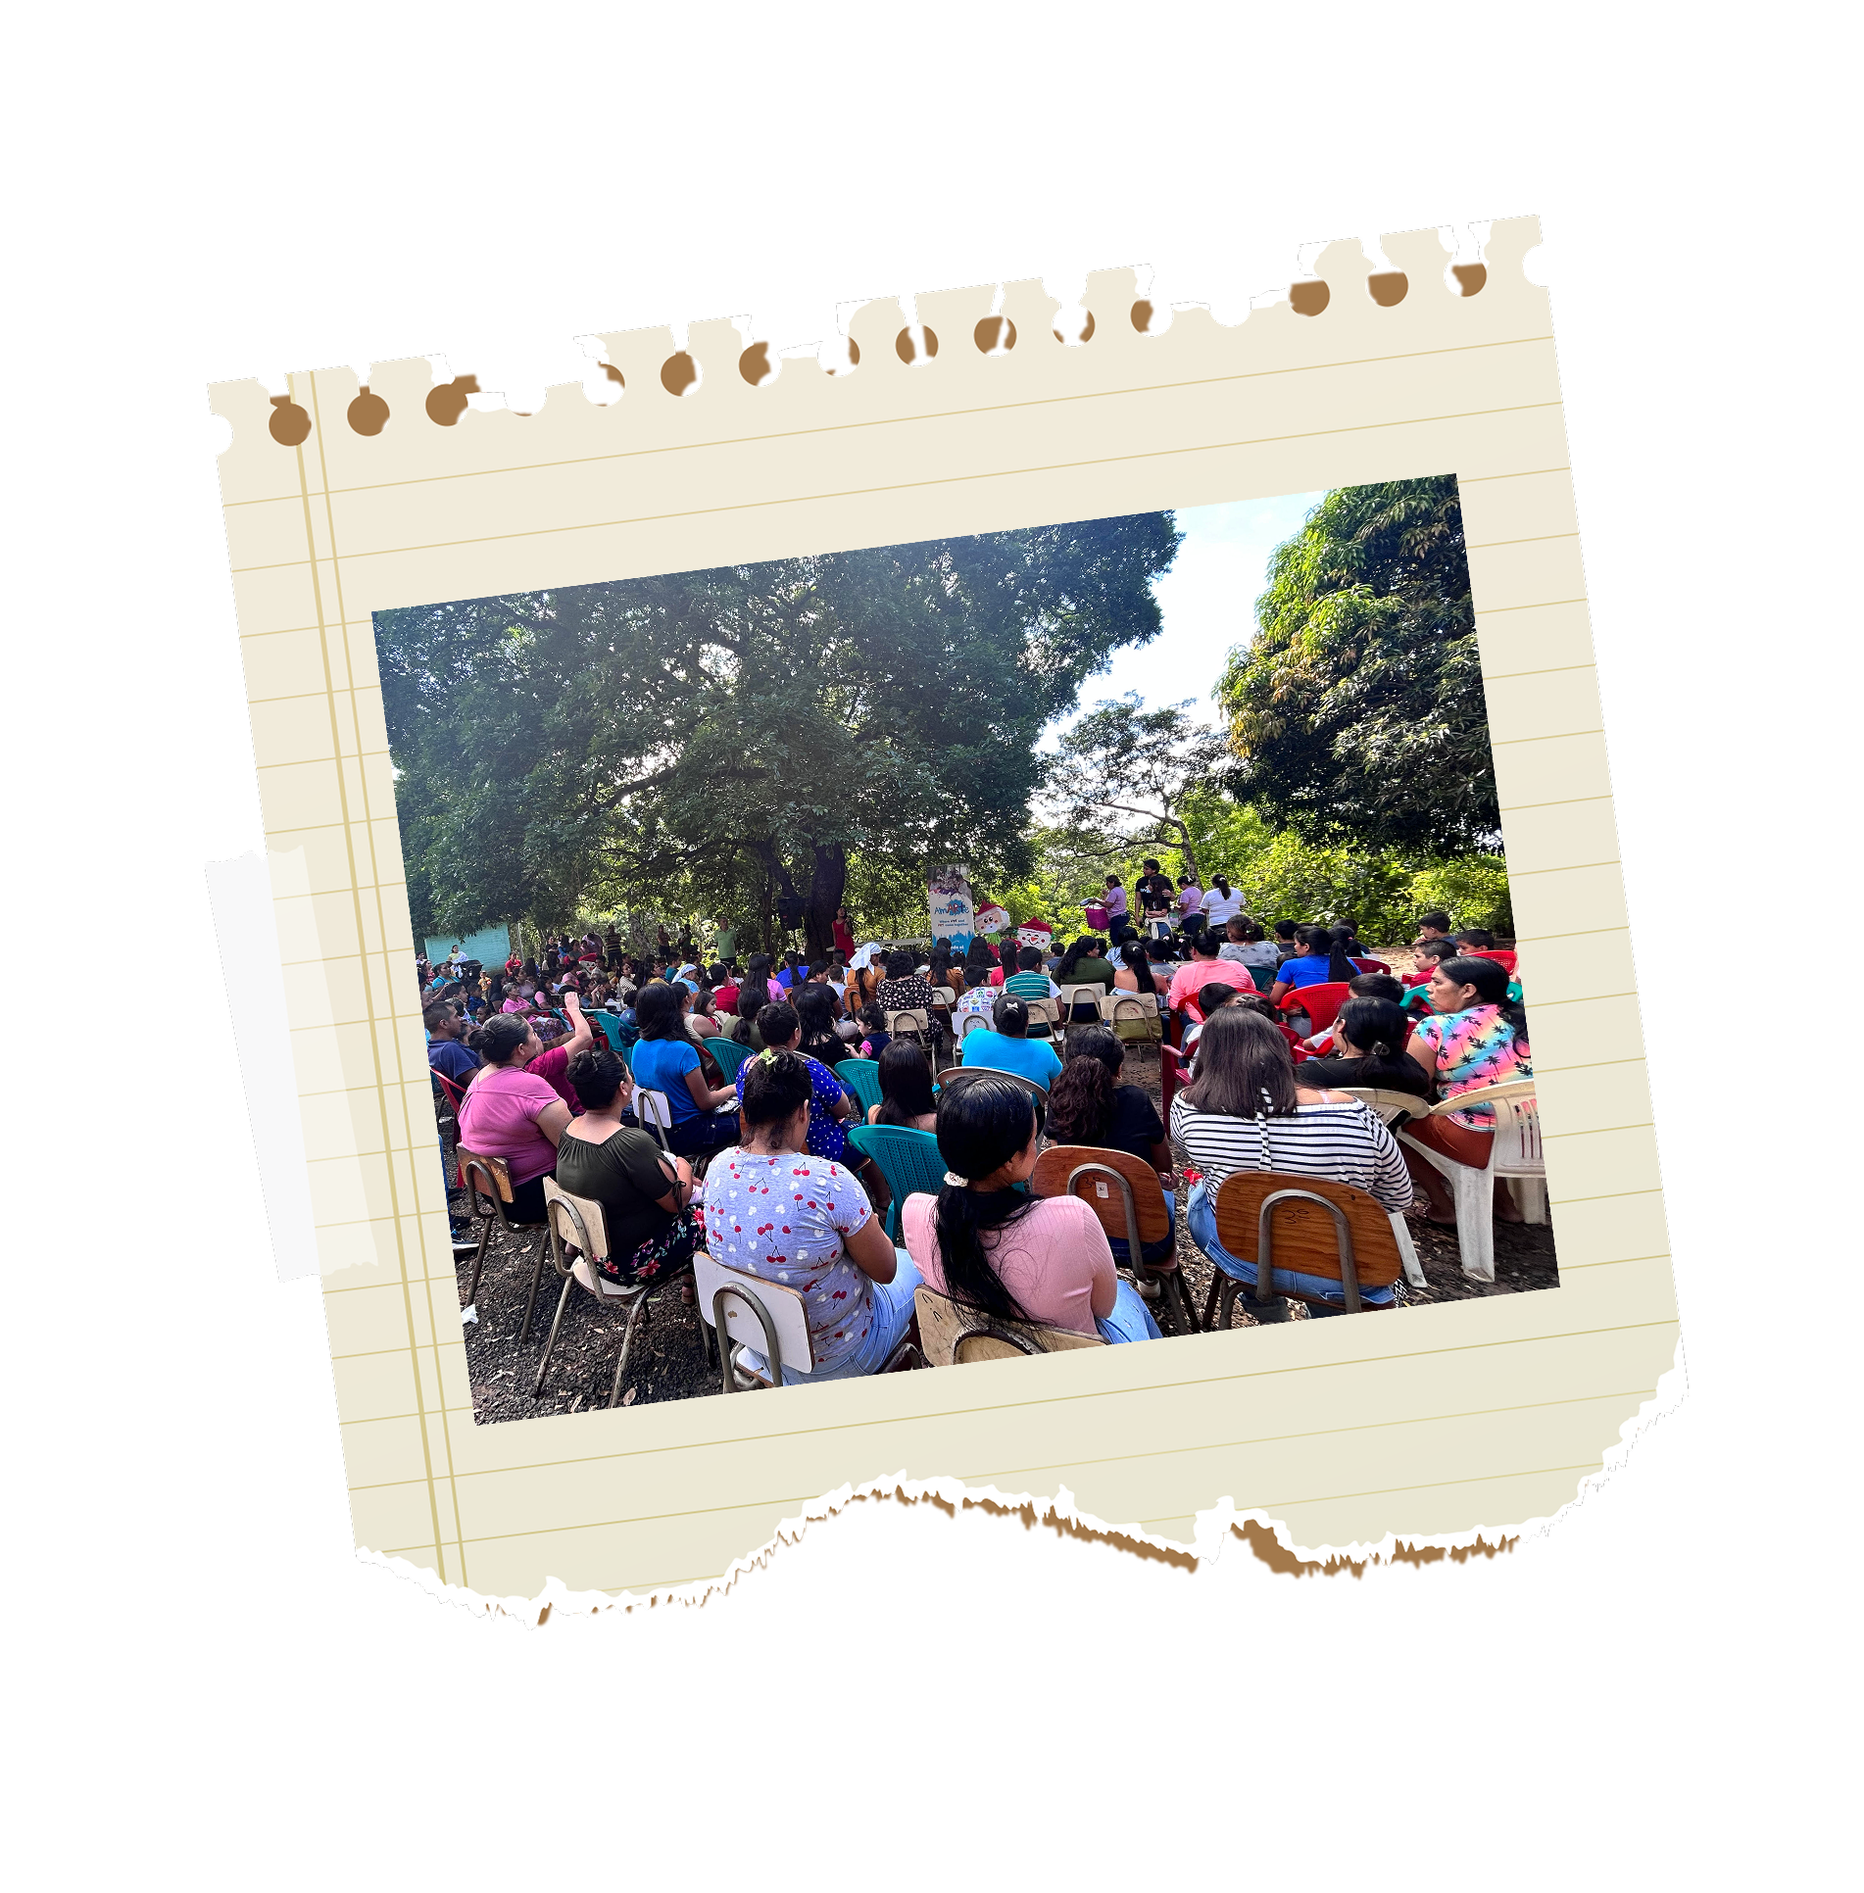
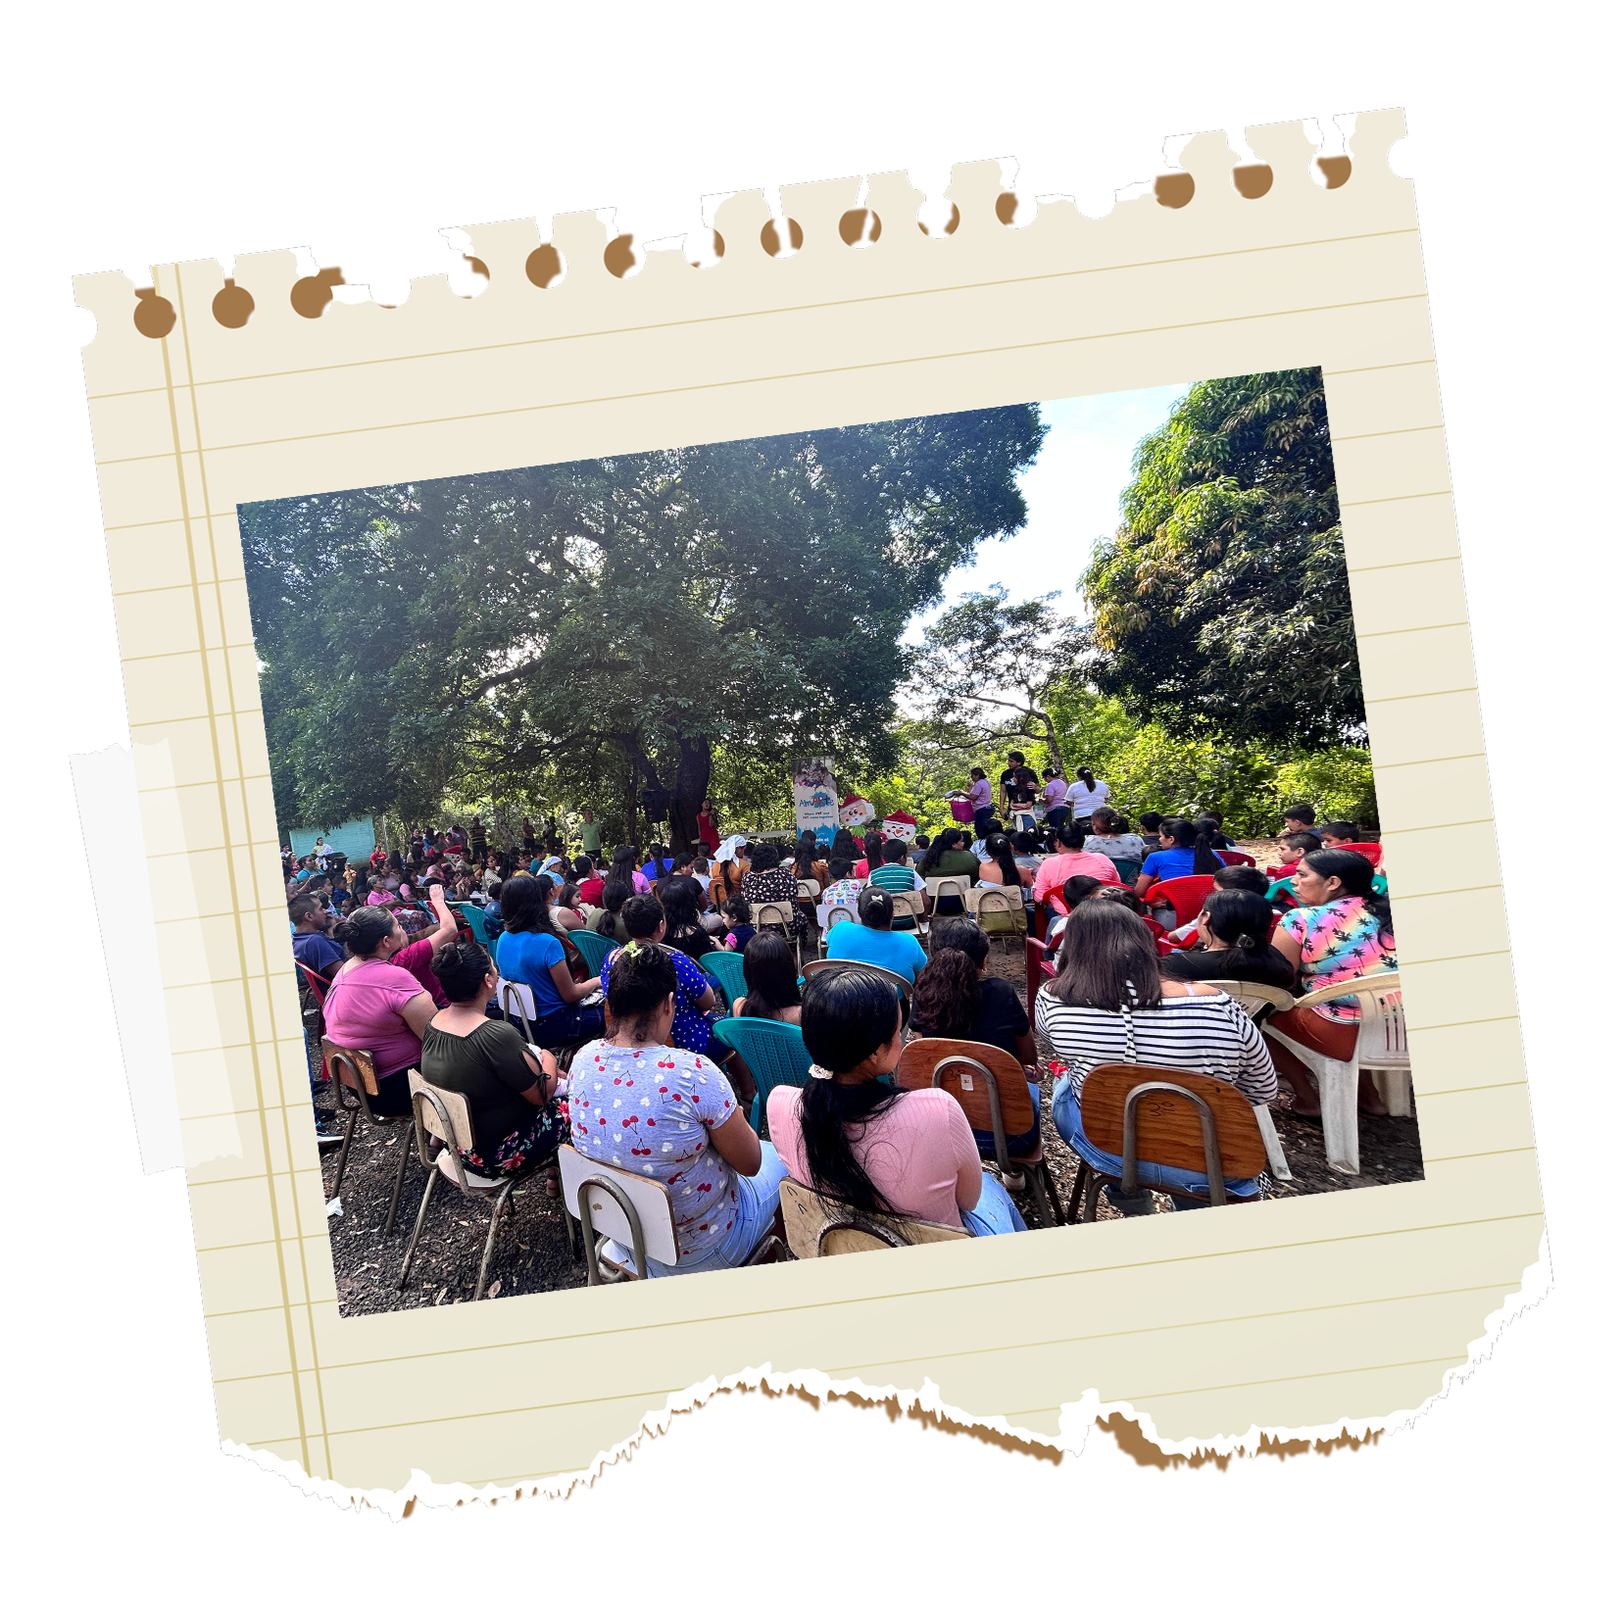
changedLayouts

diff --git a/app/[lang]/programs/page.tsx b/app/[lang]/programs/page.tsx
@@ -1,6 +1,5 @@
 import Image from "next/image";
 import { t, type Lang } from "@/lib/strings";
-import ProgramsCarousel from "@/components/ProgramsCarousel";
 
 export default async function ProgramsPage(
   { params }: { params: Promise<{ lang: Lang }> }
@@ -8,27 +7,94 @@ export default async function ProgramsPage(
   const { lang } = await params;
   const dict = t(lang || "es");
 
-  // Mostrar TODOS los programas en el carrusel
-const allPrograms = [...dict.programs] as {
-  id: string; title: string; desc: string; img: string; imgAlt: string;
-}[];
-
+  const programs = [
+    {
+      id: "art",
+      img: "/p1.png",
+      imgAlt: lang === "es" ? "Niños con kits de arte" : "Kids with art kits",
+      title: lang === "es" ? "Clases de Arte" : "Art Classes",
+      desc: lang === "es"
+        ? "Organizamos clases en las comunidades donde los niños participan en actividades artísticas diseñadas para fomentar la creatividad y la autoexpresión. En cada clase, los niños trabajan en un proyecto artístico específico, como crear autorretratos, tableros de visión y otras piezas creativas. Estas actividades permiten a los niños explorar su creatividad, reflexionar sobre sus experiencias y desarrollar confianza a través de la expresión artística. Asimismo, organizamos recolecciones de materiales de arte para asegurar que los niños que no tienen acceso a materiales artísticos debido a barreras económicas, aún tengan la oportunidad de explorar su creatividad."
+        : "We host classes in the community where children participate in guided, hands-on art activities designed to encourage creativity and self-expression. In each class, children work on a specific art project, such as creating self-portraits, vision boards, and other creative pieces. These activities allow children to explore their creativity, reflect on their experiences, and build confidence through artistic expression. We also organize art supply drives to ensure that children who may not have access to art materials due to financial barriers still have the opportunity to explore their creativity.",
+    },
+    {
+      id: "scholarships",
+      img: "/p2.png",
+      imgAlt: lang === "es" ? "Niños recibiendo becas" : "Children receiving scholarships",
+      title: lang === "es" ? "Becas y Mentorías" : "Scholarships & Mentorships",
+      desc: lang === "es"
+        ? "Ofrecemos pequeñas becas a un número limitado de niños que enfrentan desafíos significativos. Este programa apoya a estudiantes que demuestran dedicación y un fuerte compromiso con su educación. Al proporcionar asistencia financiera, nuestro objetivo es ayudar a los niños a superar obstáculos y alcanzar sus metas educativas. Los beneficiarios de las becas también son emparejados con un mentor que brinda orientación y ánimo a lo largo de su trayectoria educativa."
+        : "We offer small scholarships to a limited number of children who face significant challenges. This program supports students who demonstrate dedication and a strong commitment to their education. By providing financial assistance, we aim to help children overcome obstacles and pursue their educational goals. Scholarship recipients are also paired with a mentor who provides guidance and encouragement throughout their educational journey.",
+    },
+    {
+      id: "wellbeing",
+      img: "/p3.png",
+      imgAlt: lang === "es" ? "Eventos comunitarios" : "Community events",
+      title: lang === "es" ? "Conexión Comunitaria" : "Community Engagement",
+      desc: lang === "es"
+        ? "Organizamos eventos comunitarios que celebran y fomentan el continuo crecimiento y éxito de los niños. Estos eventos reúnen a familias y miembros de la comunidad para reconocer los logros de los niños y promover un ambiente de apoyo."
+        : "We host special community events that celebrate and encourage children's continued growth and success. These events bring families and community members together to recognize children's achievements and foster a supportive environment.",
+    },
+  ];
 
   return (
     <section
-      className="py-12 min-h-[70vh] bg-cover bg-center bg-no-repeat"
+      className="relative min-h-screen bg-cover bg-center bg-no-repeat"
       style={{ backgroundImage: "url('/back3.png')" }}
     >
-      <div className="container-responsive text-white">
-        <h1 className="text-3xl md:text-4xl font-bold">
+      {/* Overlay para legibilidad */}
+      <div className="absolute inset-0 bg-black/40" />
+
+      <div className="relative container-responsive py-16">
+
+        {/* Título */}
+        <h1 className="text-4xl md:text-5xl font-bold text-white">
           {dict.programsTitle}
         </h1>
 
-        {/* Carrusel reutilizado mostrando TODOS los programas */}
-        <ProgramsCarousel items={allPrograms} />
+        {/* Separador decorativo */}
+        <div className="mt-4 flex items-center gap-3">
+          <div className="h-1 w-12 rounded-full bg-amPink" />
+          <div className="h-1 w-6 rounded-full bg-white/40" />
+          <div className="h-1 w-3 rounded-full bg-white/20" />
+        </div>
 
-        {/* Espacio para futuras acciones (CTA, filtros, etc.) */}
-        <div className="mt-10" />
+        {/* Lista de programas */}
+        <div className="mt-12 flex flex-col gap-8">
+          {programs.map((program, i) => (
+            <div
+              key={program.id}
+              className="flex flex-col sm:flex-row rounded-2xl overflow-hidden shadow-soft bg-white/10 backdrop-blur-sm"
+            >
+              {/* Foto con alto fijo igual en todas las cards */}
+              <div className="relative shrink-0 w-full h-64 sm:w-80 sm:h-80 md:w-96 md:h-96 bg-white/10">
+                <Image
+                  src={program.img}
+                  alt={program.imgAlt}
+                  fill
+                  className="object-contain"
+                  sizes="(max-width: 640px) 100vw, (max-width: 768px) 320px, 384px"
+                />
+              </div>
+
+              {/* Texto */}
+              <div className="flex flex-col justify-center px-8 py-8 text-center sm:text-left">
+                <span className="text-xs font-bold tracking-widest uppercase text-amPink mb-1">
+                  {lang === "es" ? `Programa ${i + 1}` : `Program ${i + 1}`}
+                </span>
+
+                <h2 className="text-2xl md:text-3xl font-bold text-white">
+                  {program.title}
+                </h2>
+
+                <p className="mt-4 text-white/90 text-sm md:text-base leading-relaxed max-w-2xl">
+                  {program.desc}
+                </p>
+              </div>
+            </div>
+          ))}
+        </div>
+
       </div>
     </section>
   );

diff --git a/app/[lang]/about/page.tsx b/app/[lang]/about/page.tsx
@@ -7,48 +7,55 @@ export default async function About(
   const { lang } = await params;
   const dict = t(lang || "es");
 
-  // Info del equipo (imagen, nombre, rol)
   const team = [
     {
       src: "/virginia.png",
       name: "Virginia Barrow-Coreas",
       role: "President",
+      desc: lang === "es"
+        ? "Virginia lidera la fundación con una visión clara de impacto social, guiando cada iniciativa con pasión y compromiso hacia los niños y familias de El Salvador."
+        : "Virginia leads the foundation with a clear vision of social impact, guiding every initiative with passion and commitment toward children and families in El Salvador.",
     },
     {
       src: "/benjamin.png",
       name: "Benjamin Coreas",
       role: "Vice President",
+      desc: lang === "es"
+        ? "Benjamin apoya la dirección estratégica de AMARTE, coordinando esfuerzos entre los distintos programas y asegurando que cada acción esté alineada con la misión de la fundación."
+        : "Benjamin supports AMARTE's strategic direction, coordinating efforts across programs and ensuring every action aligns with the foundation's mission.",
     },
     {
       src: "/karen.png",
-      name: "Karen \nDiaz",
+      name: "Karen Diaz",
       role: "Treasurer",
+      desc: lang === "es"
+        ? "Karen gestiona los recursos financieros de la fundación con transparencia y responsabilidad, garantizando que cada donación llegue donde más se necesita."
+        : "Karen manages the foundation's financial resources with transparency and accountability, ensuring every donation reaches where it is needed most.",
     },
     {
       src: "/gaby.png",
       name: "Gabriela Barrera",
       role: "Secretary",
+      desc: lang === "es"
+        ? "Gabriela mantiene la organización interna de AMARTE, coordinando comunicaciones y documentación para que cada programa funcione de manera eficiente."
+        : "Gabriela maintains AMARTE's internal organization, coordinating communications and documentation so every program runs efficiently.",
     },
     {
       src: "/karla.png",
-      name: "Karla \nUmanzor",
+      name: "Karla Umanzor",
       role: "Director of Programs",
+      desc: lang === "es"
+        ? "Karla diseña y supervisa los programas educativos y artísticos de AMARTE, asegurando que cada actividad genere un impacto real y duradero en las comunidades."
+        : "Karla designs and oversees AMARTE's educational and artistic programs, ensuring every activity creates a real and lasting impact in communities.",
     },
   ];
 
   return (
-    <section
-      className="
-        relative
-        bg-[url('/back2.png')] bg-cover bg-center bg-no-repeat
-      "
-    >
-      {/* Overlay opcional para legibilidad */}
-      <div className="absolute inset-0 bg-white/70 -z-10"></div>
+    <section className="bg-white">
+      <div className="container-responsive py-16">
 
-      {/* Contenido */}
-      <div className="container-responsive py-16 relative">
-        <h1 className="text-5xl font-bold">{dict.teamTitle}</h1>
+        {/* Título */}
+        <h1 className="text-5xl font-bold text-neutral-800">{dict.teamTitle}</h1>
 
         {/* Misión */}
         <div className="mt-4 max-w-3xl">
@@ -65,48 +72,40 @@ export default async function About(
           </div>
         </div>
 
-        {/* Grilla de imágenes */}
-        <div className="grid grid-cols-2 md:grid-cols-3 lg:grid-cols-5 gap-10 mt-12 text-center">
+        {/* Lista de miembros */}
+        <div className="mt-14 flex flex-col gap-8">
           {team.map((member, i) => (
-            <div key={i} className="flex flex-col items-center">
-              {/* Contenedor responsive */}
-              <div
-                className="
-                  relative
-                  w-40 h-40
-                  sm:w-48 sm:h-48
-                  md:w-56 md:h-56
-                  lg:w-64 lg:h-64
-                "
-              >
+            <div
+              key={i}
+              className="flex flex-col sm:flex-row items-center sm:items-start gap-6 bg-neutral-50 rounded-2xl p-3 shadow-soft"
+            >
+              {/* Foto */}
+              <div className="relative shrink-0 w-48 h-48 md:w-60 md:h-60">
                 <Image
                   src={member.src}
-                  alt={member.name.replace("\n", " ")}
+                  alt={member.name}
                   fill
-                  className="object-contain rounded-2xl"
-                  sizes="(max-width: 640px) 160px,
-                         (max-width: 768px) 192px,
-                         (max-width: 1024px) 224px,
-                         256px"
+                  className="object-cover rounded-xl"
+                  sizes="(max-width: 768px) 144px, 176px"
                 />
               </div>
 
-              {/* Nombre en líneas (soporta \n) */}
-              <h3 className="-mt-1 text-2xl font-semibold text-amWhite leading-tight">
-                {member.name.split("\n").map((line, idx) => (
-                  <span key={idx} className="block">
-                    {line}
-                  </span>
-                ))}
-              </h3>
-
-              {/* Rol */}
-              <p className="mt-0.5 text-lg text-amWhite/80">
-                {member.role}
-              </p>
+              {/* Texto */}
+              <div className="flex flex-col justify-center text-center sm:text-left">
+                <h3 className="text-xl md:text-2xl font-bold text-neutral-800">
+                  {member.name}
+                </h3>
+                <span className="mt-1 inline-block text-sm font-semibold tracking-wide uppercase text-amBlue">
+                  {member.role}
+                </span>
+                <p className="mt-3 text-neutral-600 text-sm md:text-base leading-relaxed max-w-xl">
+                  {member.desc}
+                </p>
+              </div>
             </div>
           ))}
         </div>
+
       </div>
     </section>
   );

diff --git a/lib/strings.ts b/lib/strings.ts
@@ -133,9 +133,9 @@ export const dict = {
       summary:
         "Cada acción que realizamos busca abrir oportunidades, sembrar sueños y construir un futuro lleno de posibilidades.",
       statsAlt: "Cifras de impacto de AMARTE",
-      missionLabel: "Nuestra Misión",
+      missionLabel: "Nuestra Visión",
       mission:
-        "La misión de AMARTE es equipar y elevar a los niños de bajos ingresos a través del poder transformador del amor y el arte. Utilizamos la expresión creativa como una herramienta para la educación, el desarrollo emocional y el autodescubrimiento, ayudando a los niños a desarrollar habilidades esenciales para la vida, como la comunicación, el pensamiento crítico y la resiliencia. Al fomentar relaciones sólidas entre niños, mentores y familias, creamos entornos de apoyo donde cada niño puede desarrollarse y alcanzar su máximo potencial.",
+        "Imaginamos un mundo donde cada niño, independientemente de su situación socioeconómica, tenga la oportunidad de explorar su creatividad, sentirse apoyado y desarrollar las habilidades que necesita para alcanzar su potencial.",
     },
     faq: {
       title: "Preguntas frecuentes",
@@ -289,9 +289,9 @@ export const dict = {
       summary:
         "Each action we take seeks to open opportunities, sow dreams, and build a future full of possibilities.",
       statsAlt: "AMARTE impact figures",
-      missionLabel: "Our Mission",
+      missionLabel: "Our Vision",
       mission:
-        "AMARTE's mission is to equip and uplift low-income children through the transformative power of love and art. We use creative expression as a tool for education, emotional development, and self-discovery, helping children develop essential life skills such as communication, critical thinking, and resilience. By fostering strong relationships between children, mentors, and families, we create supportive environments where every child can grow and reach their full potential.",
+        "We envision a world where every child regardless of their socioeconomic background has the chance to explore their creativity, feel supported, and build the skills they need to reach their potential.",
     },
     faq: {
       title: "Frequently Asked Questions",

diff --git a/app/[lang]/layout.tsx b/app/[lang]/layout.tsx
@@ -34,9 +34,10 @@ export default async function LangLayout(
             />
             <p className="mt-3 text-sm leading-relaxed max-w-md text-neutral-300">
               AMARTE International Inc. is a 501(c)(3) not-for-profit organization,
-              incorporated in the State of New York on May 23, 2025. Our purpose is
+              incorporated in the State of New York on May 15, 2025. Our purpose is
               to promote the rights and well-being of underserved children and their
               families, impacting and equipping our communities through art and love.
+              211 PO BOX, Mineola, NY 11501.
             </p>
           </div>
 

diff --git a/app/page.tsx b/app/page.tsx
@@ -1,3 +1,3 @@
 
 import { redirect } from "next/navigation";
-export default function Page(){ redirect("/es"); }
+export default function Page(){ redirect("/en"); }
